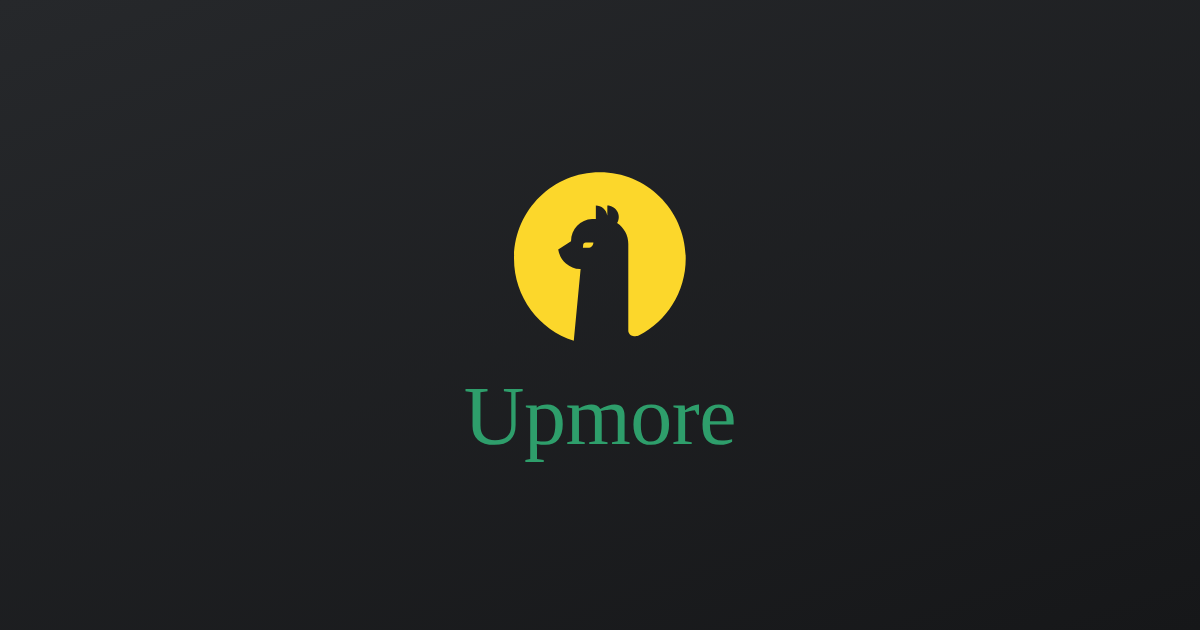
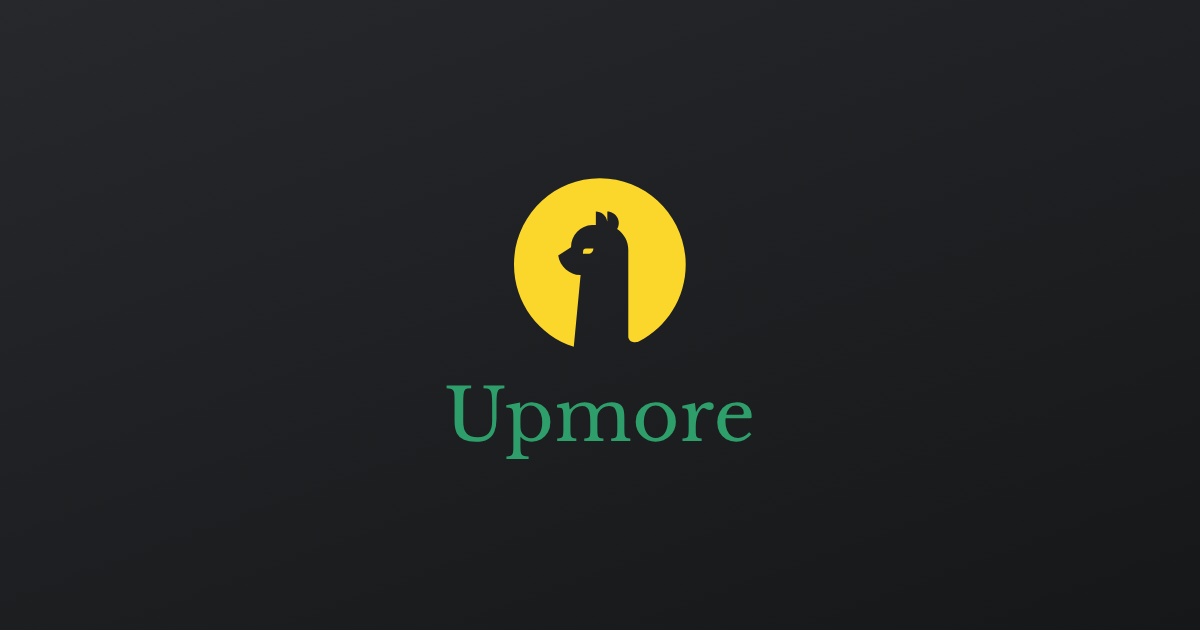
Connect card wordmark in Libre Baskerville
Owner, 2026-10-11: a font a little different and more finance oriented. Baskerville is
the classic banknote and financial-print face; Libre Baskerville is SIL OFL and bundled
with its license. Tinos removed. Card images and pages rebuilt, test and baseline updated.

Claude-Session: https://claude.ai/code/session_01MhVNZTtjYXmkUaNZRhquUF

diff --git a/CLAUDE.md b/CLAUDE.md
@@ -40,7 +40,7 @@ Instinct spec series: `docs/instinct-spec-series/` (16 docs). Ownership, status 
 - One owner per file (BUILD-STATUS "Claimed files"). Claim before editing; never edit the other agent's files, leave a Request instead.
 - Never store OTPs, passwords or identity digits. One explicit approval per cancellation. No phone calls. No securities advice.
 - Real company icons only (owner, must rule, 2026-10-11): every company Upmore shows (a connector, a merchant, a bank, a broker) is shown with its real logo, never a generic glyph, a letter tile, an emoji or a look-alike. Each logo file names its source and license (`img/brands/SOURCES.md`); a company without a real logo on file gets plain words until one is added.
-- Connecting something always uses the owner's reference design: one short line saying what did not happen and "here's the link", then the connect link alone on its own line. iMessage draws it as the card (dark grey, the company's real logo centered with the Upmore wordmark centered right below it in Upmore green (#2E9E6B) in a Times New Roman-style serif (Tinos), then a dark grey strip with "Connect X to Upmore" and the domain), and the app draws the same card from the same image. Only providers a person can actually connect get a card.
+- Connecting something always uses the owner's reference design: one short line saying what did not happen and "here's the link", then the connect link alone on its own line. iMessage draws it as the card (dark grey, the company's real logo centered with the Upmore wordmark centered right below it in Upmore green (#2E9E6B) in Libre Baskerville, a finance-style serif, then a dark grey strip with "Connect X to Upmore" and the domain), and the app draws the same card from the same image. Only providers a person can actually connect get a card.
 - Automations are per-person toggles (owner, 2026-10-11 night): recurring or automatic investing, copying a portfolio or filing, reinvesting, sweeps and similar may exist, but each person turns one on themselves after it is restated in exact terms (what, how much, how often, from which account), and one message turns it off. Until the owner says otherwise in writing, every run still asks that person for a one-line yes before any order, and every order stays under the $5 cap; the loop's envelope autonomy stays off (`envelope_autonomy` is never set in shipped code). The agent offers, it never decides: before a trial bills it asks "should I cancel this for you?" and cancels only on that person's yes (one explicit approval per cancellation stands).
 
 ## Done means

diff --git a/docs/playbook-drift-2026-10-11.md b/docs/playbook-drift-2026-10-11.md
@@ -208,3 +208,6 @@ The first run of `deno run -A evals/agent/run.ts` against the repo as it was is 
   wordmark is Upmore green (#2E9E6B, the app's --accent), still in Tinos.
 - **Card restyled a third time (owner):** a darker grey (#26282B to #161719), and the green Upmore wordmark centered
   right below the logo instead of bottom right.
+- **Wordmark font changed (owner, "a little different, more finance oriented"):** Libre Baskerville replaces Tinos
+  (Baskerville is the classic banknote and financial-print face; SIL OFL, `fonts/libre-baskerville-regular.woff2` +
+  `fonts/libre-baskerville-OFL.txt`). Tinos was removed from the repo.
